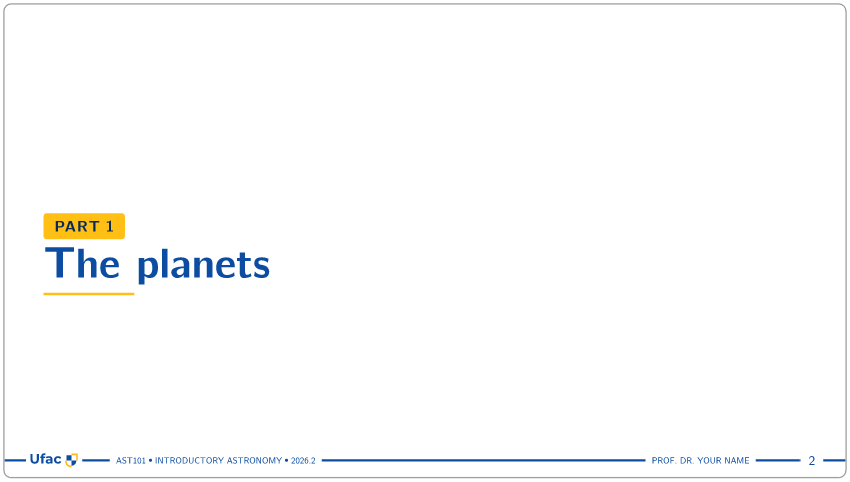
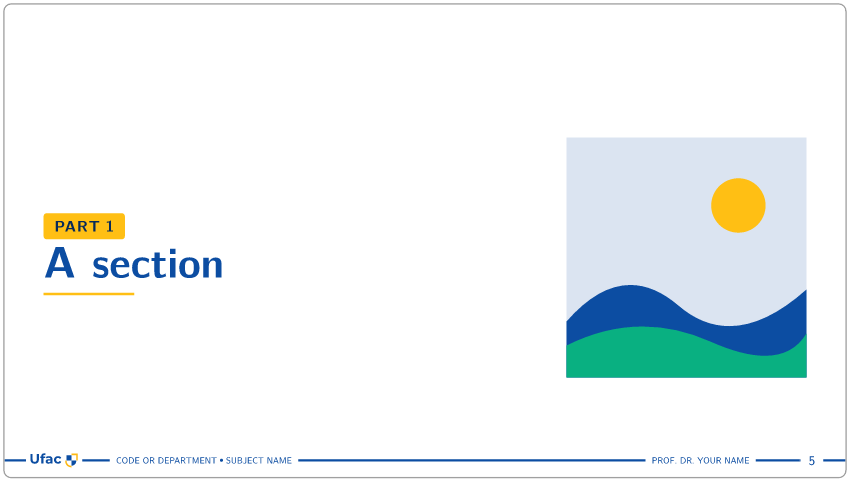
README: as ênfases e a figura da seção de volta (do deck das imagens), a linha do código com as linguagens que têm pílula, e o resto das linhas dos elementos; o CI da versão mínima e o local.sh compilam também docs/readme/gallery.typ

diff --git a/README.md b/README.md
@@ -79,13 +79,14 @@ Headings make the slides, and a few Markdown-like shorthands make boxes, quotes 
 | Preview | Element |
 | --- | --- |
 | <img src="https://raw.githubusercontent.com/lucaslrodri/touying-ufac-unofficial/v0.3.0/docs/readme/element-slide.png" width="340" alt="A slide with a subtitle, arrows, a box and a tip"> | **Slides.** `==` opens a slide and `===` adds a subtitle; `---` goes on to a new page. `->` at the start of a paragraph makes a list with arrows. |
-| <img src="https://raw.githubusercontent.com/lucaslrodri/touying-ufac-unofficial/v0.3.0/docs/readme/element-section.png" width="340" alt="A section slide"> | **Sections.** `= Title` opens a section slide. |
-| <img src="https://raw.githubusercontent.com/lucaslrodri/touying-ufac-unofficial/v0.3.0/docs/readme/element-exercise.png" width="340" alt="An exercise with its answer"> | **Exercises and examples.** `== Title <exercise>` or `<example>`, numbered. `#answer` or `#solution` opens the answer. |
-| <img src="https://raw.githubusercontent.com/lucaslrodri/touying-ufac-unofficial/v0.3.0/docs/readme/element-boxes.png" width="340" alt="A box, a quotation and an equation box"> | **Boxes.** `> text` makes a box, `"A quotation."` alone in its paragraph a quote, and `> $ … $` an equation box. |
+| <img src="https://raw.githubusercontent.com/lucaslrodri/touying-ufac-unofficial/v0.3.0/docs/readme/element-emphasis.png" width="340" alt="A slide with bold, italic, alert, highlight and underline"> | **Emphasis.** `*bold*`, `_italic_`, `~~alert~~`, `==highlight==` and `~underline~`. |
+| <img src="https://raw.githubusercontent.com/lucaslrodri/touying-ufac-unofficial/v0.3.0/docs/readme/element-section.png" width="340" alt="A section slide with a figure on the right"> | **Sections.** `= Title` opens a section slide; an image after it goes on the right. |
+| <img src="https://raw.githubusercontent.com/lucaslrodri/touying-ufac-unofficial/v0.3.0/docs/readme/element-exercise.png" width="340" alt="An exercise with its answer"> | **Exercises and examples.** `== Title <exercise>` or `<example>`, numbered. `#answer` opens the answer, and `#solution` the solution. |
+| <img src="https://raw.githubusercontent.com/lucaslrodri/touying-ufac-unofficial/v0.3.0/docs/readme/element-boxes.png" width="340" alt="A box, a quotation and an equation box"> | **Boxes.** `> text` makes a box and `> $ … $` an equation box. A paragraph of only `"A quotation."` is a quote. |
 | <img src="https://raw.githubusercontent.com/lucaslrodri/touying-ufac-unofficial/v0.3.0/docs/readme/element-callouts.png" width="340" alt="Callouts: caution, tip, remark, note, example and examples"> | **Callouts.** `#caution`, `#tip`, `#remark`, `#note`, `#example` and `#examples`. |
-| <img src="https://raw.githubusercontent.com/lucaslrodri/touying-ufac-unofficial/v0.3.0/docs/readme/element-code.png" width="340" alt="Python code and its output"> | **Code.** A fenced block shows its language. A `text` block is the output. |
-| <img src="https://raw.githubusercontent.com/lucaslrodri/touying-ufac-unofficial/v0.3.0/docs/readme/element-table.png" width="340" alt="A table with a blue header"> | **Tables.** The header row is blue. |
-| <img src="https://raw.githubusercontent.com/lucaslrodri/touying-ufac-unofficial/v0.3.0/docs/readme/element-ending.png" width="340" alt="The closing slide"> | **Closing slide.** `#ending-slide[Thank you!]`. |
+| <img src="https://raw.githubusercontent.com/lucaslrodri/touying-ufac-unofficial/v0.3.0/docs/readme/element-code.png" width="340" alt="Python code and its output"> | **Code.** A fenced block of Python, Typst, MATLAB or shell shows its language; a `text` block is the output. |
+| <img src="https://raw.githubusercontent.com/lucaslrodri/touying-ufac-unofficial/v0.3.0/docs/readme/element-table.png" width="340" alt="A table with a blue header"> | **Tables.** The header row is blue, and a cell filled with a light tone colors its bold text. |
+| <img src="https://raw.githubusercontent.com/lucaslrodri/touying-ufac-unofficial/v0.3.0/docs/readme/element-ending.png" width="340" alt="The closing slide"> | **Closing slide.** `#ending-slide[Thank you!][Subtitle][Body]`. |
 
 ## Examples
 
